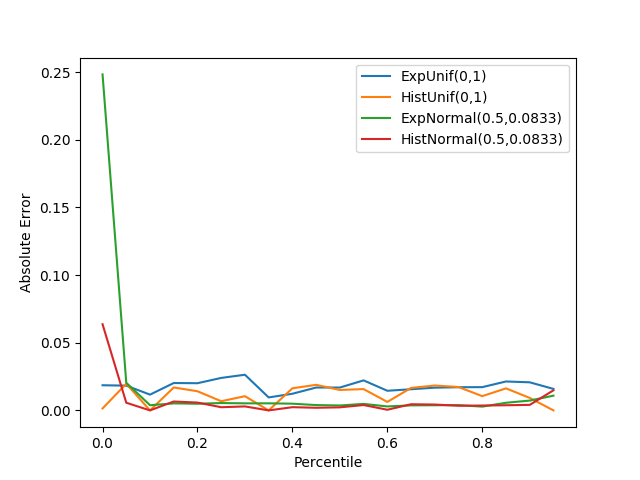
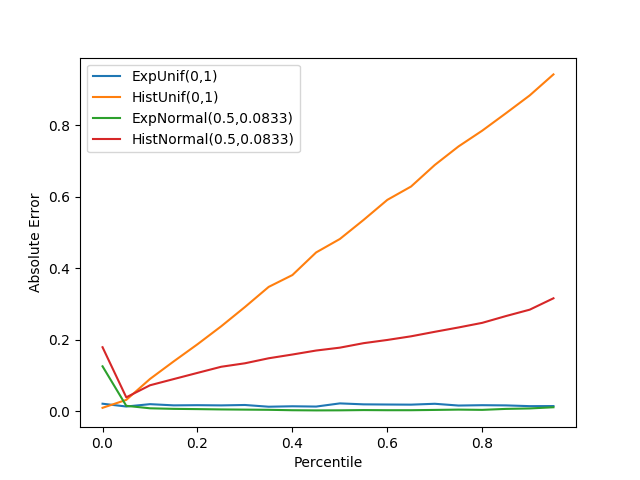
update implementation

diff --git a/Greenwald_Khanna.py b/Greenwald_Khanna.py
@@ -54,21 +54,61 @@ class GK:
 
         return np.random.uniform(low=self.S[max_index-1].v, high=self.S[max_index].v)
 
-    def construct_histogram(self):
-        return []
+    def construct_histogram(self, l, bin_size, num_bins):
+        hist = {}
+        for i in range(num_bins):
+            hist[(l+i*bin_size, l+(i+1)*bin_size)] = 0
+        return hist
 
-    def dp_histogram_quantile(self, q, eps):
+    def dp_histogram_quantile_pure(self, q, eps, l, bin_size, num_bins):
+        num_bins = int(num_bins)
         eps = float(eps)
-        hist = self.construct_histogram()
+        hist = self.construct_histogram(l, bin_size, num_bins)
+        assert(len(hist.keys()) <= 100*math.log(self.n)*len(self.S))
+        for t in self.S:
+            (v, g, Delta) = (t.v, t.g, t.Delta)
+            bin_num = math.floor((v-l)/float(bin_size)) if v >= l else 0
+            noisy_g = g + np.random.laplace(0., 2.0/eps)
+            hist[(l + bin_num*bin_size, l + (bin_num+1)*bin_size)] = noisy_g
+        cdf = {}
         cur = 0
         for t in self.S:
-            noisy_g = t.g + np.random.laplace(0., 2/eps)
-            hist.append((t.v, cur + noisy_g))
+            (v, g, Delta) = (t.v, t.g, t.Delta)
+            bin_num = math.floor((v-l)/float(bin_size)) if v >= l else 0
+            noisy_g = hist[(l + bin_num*bin_size, l + (bin_num+1)*bin_size)]
             cur = cur + noisy_g
+            cdf[(l + bin_num*bin_size, l + (bin_num+1)*bin_size)] = cur
         r = math.ceil(q*self.n)
-        for (v, rank) in hist:
-            if r < rank: return v
-        return hist[len(hist)-1][0]
+        for (l, r) in cdf:
+            rank = cdf[(l, r)]
+            if r < rank: return l
+        return cdf[len(cdf)-1][0]
+
+    def dp_histogram_quantile_approx(self, q, eps, delta, l, bin_size, num_bins):
+        num_bins = int(num_bins)
+        eps = float(eps)
+        hist = self.construct_histogram(l, bin_size, num_bins)
+        assert(len(hist.keys()) <= 100*math.log(self.n)*len(self.S))
+        for t in self.S:
+            (v, g, Delta) = (t.v, t.g, t.Delta)
+            bin_num = math.floor((v-l)/float(bin_size)) if v >= l else 0
+            noisy_g = g + np.random.laplace(0., 2.0/eps)
+            if noisy_g < (2*math.log(2.0/delta)/eps + 1.0):
+                noisy_g = 0
+            hist[(l + bin_num*bin_size, l + (bin_num+1)*bin_size)] = noisy_g
+        cdf = {}
+        cur = 0
+        for t in self.S:
+            (v, g, Delta) = (t.v, t.g, t.Delta)
+            bin_num = math.floor((v-l)/float(bin_size)) if v >= l else 0
+            noisy_g = hist[(l + bin_num*bin_size, l + (bin_num+1)*bin_size)]
+            cur = cur + noisy_g
+            cdf[(l + bin_num*bin_size, l + (bin_num+1)*bin_size)] = cur
+        r = math.ceil(q*self.n)
+        for (l, r) in cdf:
+            rank = cdf[(l, r)]
+            if r < rank: return l
+        return cdf[len(cdf)-1][0]
 
     def __compress(self):
         if self.n < 1/(2*self.alpha): return

diff --git a/GK_plots.py b/GK_plots.py
@@ -35,6 +35,8 @@ def GK_plot(alpha, n, streams, labels):
 
 def DP_GK_plot(alpha, n, eps, streams, labels, num_trials):
     eps = float(eps)
+    delta = math.pow(10, -3)
+    delta = float(delta)
 
     np_gks = []
     for i in range(len(labels)):
@@ -52,7 +54,11 @@ def DP_GK_plot(alpha, n, eps, streams, labels, num_trials):
             for j in range(num_trials):
                 res1 = np_gks[i].dp_exp_mech_quantile(q, eps)
                 diff1 += abs(res1-res)
-                res2 = np_gks[i].dp_histogram_quantile(q, eps)
+                res2 = 0
+                if delta == 0:
+                    res2 = np_gks[i].dp_histogram_quantile_pure(q, eps, 0, alpha/2, 1/(2*0.05))
+                else:
+                    res2 = np_gks[i].dp_histogram_quantile_approx(q, eps, delta, 0, alpha/2, 1/(2*0.05))
                 diff2 += abs(res2-res)
             values[0].append(diff1/num_trials)
             values[1].append(diff2/num_trials)
@@ -97,9 +103,10 @@ if __name__ == "__main__":
     print(res_real, np_gk.dp_histogram_quantile(0.5, 1))
     '''
     for a in [0.1, 0.01, 0.001, 0.0001]:
-        for num_items in [1000, 10000, 100000, 100000]:
+        #for num_items in [1000, 10000, 100000, 100000]:
+        for num_items in [100000]:
             unif_data = np.random.uniform(0, 1, num_items)
             normal_data = np.random.normal(0.5, 1/12., num_items)
-            GK_plot(a, num_items, [unif_data, normal_data], [r"Unif(0,1)", r"Normal(0.5,0.0833)"])
-            #DP_GK_plot(a, num_items, 1, [unif_data, normal_data], [r"Unif(0,1)", r"Normal(0.5,0.0833)"], 1000)
+            # GK_plot(a, num_items, [unif_data, normal_data], [r"Unif(0,1)", r"Normal(0.5,0.0833)"])
+            DP_GK_plot(a, num_items, 1, [unif_data, normal_data], [r"Unif(0,1)", r"Normal(0.5,0.0833)"], 1000)
     
